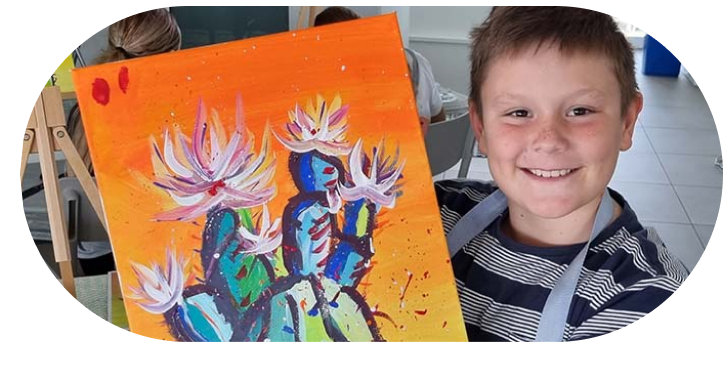
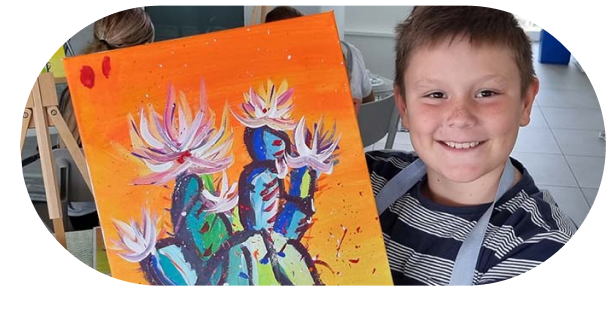
scaled down imgs

diff --git a/style-gallery.css b/style-gallery.css
@@ -2,15 +2,23 @@
     margin: 0;
     padding: 0;
 }
-body{
+body{       
     background-color: black;
 }
 .gallery-container{
-    border: 2px solid red;
-    padding: 50px;
-    margin: 20px;
+    /* border: 2px solid red; */
+    padding: 0;
+    margin: auto;
+
 }
 .img-container{
-    border: 2px solid yellow;
+    /* border: 2px solid yellow; */
+    padding: 0;
+    margin: auto;
+   
 
+}
+
+.bottom-txt{
+    margin-left: 50px;
 }
